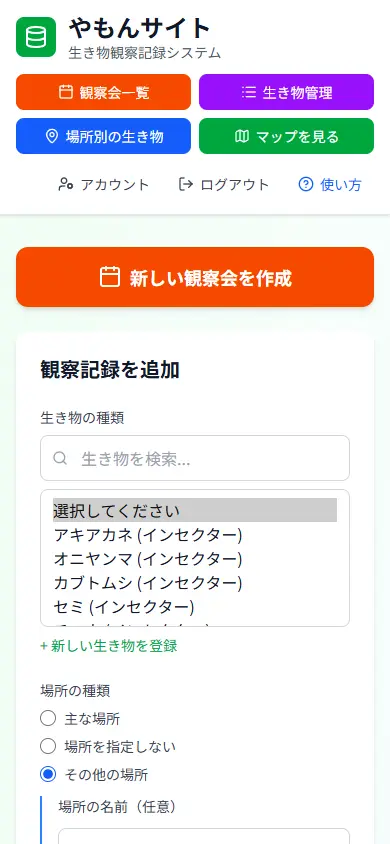
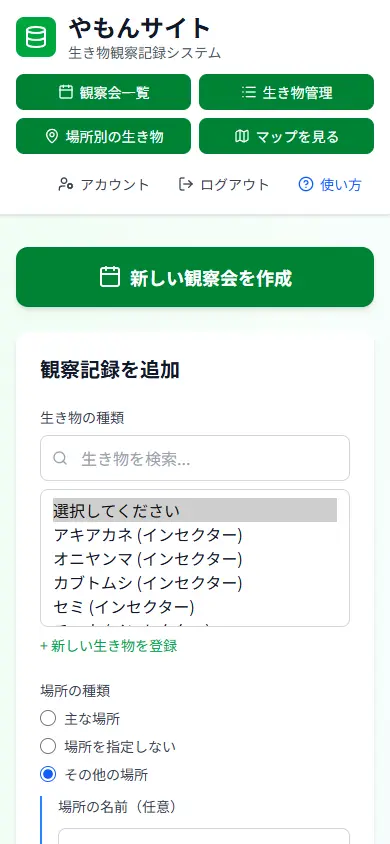
feat: 5つのボタンを「マップを見る」と同じ緑にそろえる (#87)
* feat: 観察会一覧・生き物管理・場所別の生き物・新しい観察会を作成・現在位置を取得のボタンを緑にそろえる

「マップを見る」と同じ bg-green-600（hover は green-700）にする。生き物管理を
開いているときの枠も緑にした。管理者画面のボタンは紫のまま。使い方ガイドの
画像（home・record-form・viewer-home）を撮り直した。

Refs #86

* refactor: ヘッダーの緑のクラスを navGreen にまとめる

コードレビューの指摘に対応する。

Refs #86

* fix: 緑のボタンを green-700 にし、白い文字のコントラストを 4.5:1 以上にする

コードレビューの指摘（green-600 と白い文字は約3.3:1）に対応する。ユーザーの
判断で、「マップを見る」を含む6つを green-700（hover は green-800、約4.95:1）
にした。ガイドの画像を撮り直した。

Refs #86

---------

Changed region(s): [[0.0308, 0.0616, 0.9846, 0.1848], [0.0308, 0.2773, 0.9846, 0.3697]]

diff --git a/apps/web/src/components/HomeHeader.tsx b/apps/web/src/components/HomeHeader.tsx
@@ -3,6 +3,11 @@ import { Calendar, CircleHelp, Database as DbIcon, List, LogOut, Map as MapIcon,
 import { Link } from 'react-router';
 
 const navBtn = 'flex items-center justify-center gap-1.5 rounded-lg px-3 py-2 text-sm whitespace-nowrap text-white transition-colors';
+/**
+ * 遷移ボタンの色（管理者画面以外は緑にそろえる、#86）。白い小さい文字が読めるよう、green-600（約3.3:1）ではなく
+ * green-700（約5.0:1、WCAG AA の 4.5:1 以上）にする
+ */
+const navGreen = 'bg-green-700 hover:bg-green-800';
 /** ヘッダーの右端の、文字だけのリンク（アカウント・ログアウト・使い方） */
 const textLink = 'flex items-center gap-1.5 rounded-lg px-3 py-2 text-sm whitespace-nowrap transition-colors';
 
@@ -45,7 +50,7 @@ export function HomeHeader({
               管理者画面
             </Link>
           )}
-          <Link to="/event-list" className={`${navBtn} bg-orange-600 hover:bg-orange-700`}>
+          <Link to="/event-list" className={`${navBtn} ${navGreen}`}>
             <Calendar className="h-4 w-4" />
             観察会一覧
           </Link>
@@ -53,16 +58,16 @@ export function HomeHeader({
             type="button"
             onClick={onToggleCreatures}
             aria-pressed={showCreatures}
-            className={`${navBtn} bg-purple-600 hover:bg-purple-700 ${showCreatures ? 'ring-2 ring-purple-300' : ''}`}
+            className={`${navBtn} ${navGreen} ${showCreatures ? 'ring-2 ring-green-300' : ''}`}
           >
             <List className="h-4 w-4" />
             生き物管理
           </button>
-          <Link to="/locations" className={`${navBtn} bg-blue-600 hover:bg-blue-700`}>
+          <Link to="/locations" className={`${navBtn} ${navGreen}`}>
             <MapPin className="h-4 w-4" />
             場所別の生き物
           </Link>
-          <Link to="/map" className={`${navBtn} bg-green-600 hover:bg-green-700`}>
+          <Link to="/map" className={`${navBtn} ${navGreen}`}>
             <MapIcon className="h-4 w-4" />
             マップを見る
           </Link>

diff --git a/apps/web/src/pages/MainPage.tsx b/apps/web/src/pages/MainPage.tsx
@@ -78,7 +78,7 @@ export function MainPage() {
           <button
             type="button"
             onClick={() => setShowEventForm(true)}
-            className="flex w-full items-center justify-center gap-2 rounded-xl bg-orange-600 py-4 text-lg font-bold text-white shadow-md transition-colors hover:bg-orange-700"
+            className="flex w-full items-center justify-center gap-2 rounded-xl bg-green-700 py-4 text-lg font-bold text-white shadow-md transition-colors hover:bg-green-800"
           >
             <Calendar className="h-6 w-6" />
             新しい観察会を作成

diff --git a/apps/web/src/components/CoordinatePicker.tsx b/apps/web/src/components/CoordinatePicker.tsx
@@ -43,7 +43,7 @@ export function CoordinatePicker({
         type="button"
         onClick={useGps}
         disabled={locating}
-        className="flex w-full items-center justify-center gap-2 rounded-lg bg-purple-600 py-2.5 text-white transition-colors hover:bg-purple-700 disabled:opacity-60"
+        className="flex w-full items-center justify-center gap-2 rounded-lg bg-green-700 py-2.5 text-white transition-colors hover:bg-green-800 disabled:opacity-60"
       >
         <Navigation className="h-4 w-4" />
         {locating ? '取得中…' : '現在位置を取得'}
